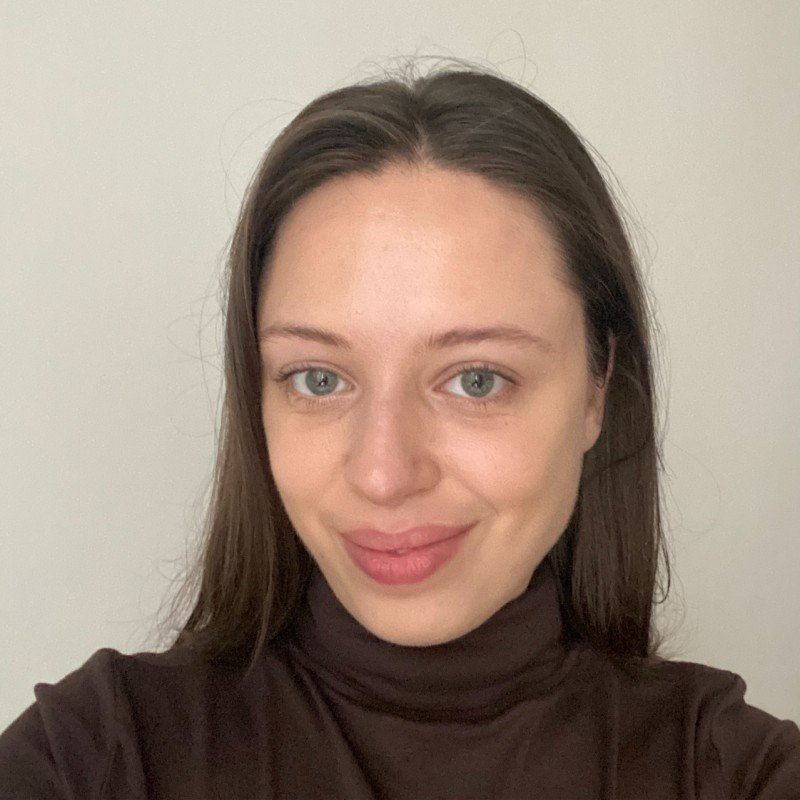
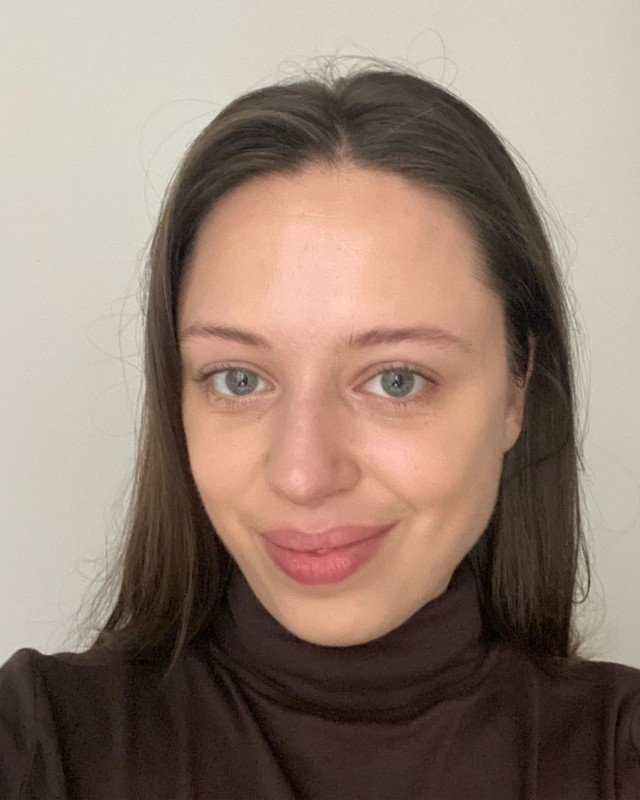
Lisa : fiche alignée sur les autres portraits
- portrait recadré en 4:5 comme les autres fiches
- section Mindset ajoutée (sa philosophie de travail), retirée du bloc inspirations
- Pauline Laigneau passe dans « Qui inspire Lisa ? » avec sa photo
- couverture Journal du Luxe au format vignette
- suppression du doublon « Le mot de la fin » (déjà généré automatiquement)

Claude-Session: https://claude.ai/code/session_01UtQ185CyuPBWY5TxR9ke8z

diff --git a/data/interviews.js b/data/interviews.js
@@ -283,20 +283,21 @@ window.INTERVIEWS = [
       { section: "declic", titreSection: "Comment Lisa est arrivée dans le CRO, puis dans l'UX", question: "Ton parcours et ta formation ?", reponse: "J'ai commencé en tant que web analyste / chargée de CRO chez Decathlon Pro (filiale BtoB de Decathlon). Cette première expérience m'a permis d'acquérir directement un mindset data driven et de toujours placer l'utilisateur au centre de mes réflexions. Quelles sont ses frictions, ses besoins, ses motivations : mon objectif est de toujours me mettre à la place de l'utilisateur. J'ai ensuite rejoint Welyft, une agence spécialisée en data marketing, experte de l'expérience digitale de la data à l'expérimentation. Travailler pour des clients différents avec des organisations et enjeux différents a été super formateur. Je recommande à tout le monde de passer par l'agence : ça permet vraiment de monter en compétence rapidement et de développer une curiosité, une exigence et une adaptabilité très fortes. Aujourd'hui j'ai l'opportunité de développer une nouvelle expertise en tant qu'UX Product Designer au sein d'une Maison de Haute Joaillerie." },
       { section: "Sa plus grande leçon", titreSection: "Pourquoi Lisa se remet toujours en question", question: "Tes succès et apprentissages ?", reponse: "Toujours se remettre en question et être ouvert d'esprit : chacun a un point de vue, une expérience différente et c'est super enrichissant de confronter son avis et ses connaissances avec d'autres personnes pour toujours apprendre et se challenger." },
       { section: "Son plus gros challenge", titreSection: "Le défi des équipes en silos", question: "Ton approche du CRO et de l'e-commerce ?", reponse: "Le plus gros challenge que j'observe, c'est le maillage des différentes expertises pour créer des expériences digitales ambitieuses : souvent les équipes sont très silotées entre les experts data, CRO, UX, les équipes business ou encore les équipes tech. Créer une organisation résolument tournée vers l'expérience digitale, data driven, tout en alliant la vision business, est souvent compliqué." },
-      { section: "Ses inspirations", titreSection: "Pourquoi Lisa se nourrit de son secteur", question: "Tes inspirations et influences ?", reponse: "Ma philosophie de travail, c'est vraiment de toujours me challenger, aller chercher l'extra mile pour rester ambitieuse et toujours apprendre. Pour les contenus, je consomme beaucoup de contenus secteur (Journal du Luxe, le podcast de Pauline Laigneau & co pour ma part) : je trouve ça important de se nourrir aussi concernant son secteur d'activité at large. Souvent, quand on travaille dans le digital, on pense plus hard skills, et c'est important, mais prendre de la hauteur permet aussi de nourrir ses réflexions, de penser différemment son métier et de mieux comprendre les enjeux business de son entreprise." },
+      { section: "mindset", question: "Ta philosophie de travail ?", titre: "Toujours me challenger, aller chercher l'extra mile.", auteur: "", reponse: "Ma philosophie de travail, c'est vraiment de toujours me challenger, aller chercher l'extra mile pour rester ambitieuse et toujours apprendre." },
+      { section: "Ses inspirations", titreSection: "Pourquoi Lisa se nourrit de son secteur", question: "Tes inspirations et influences ?", reponse: "Pour les contenus, je consomme beaucoup de contenus secteur (Journal du Luxe, le podcast de Pauline Laigneau & co pour ma part) : je trouve ça important de se nourrir aussi concernant son secteur d'activité at large. Souvent, quand on travaille dans le digital, on pense plus hard skills, et c'est important, mais prendre de la hauteur permet aussi de nourrir ses réflexions, de penser différemment son métier et de mieux comprendre les enjeux business de son entreprise." },
       { section: "Sa vision", titreSection: "Les AI design generators pour se concentrer sur l'essentiel", question: "Ta vision et ton expertise ?", reponse: "Ce que je trouve super intéressant en ce moment, c'est de tester les AI design generators. Je suis passée côté UX depuis quelques mois et, pour être honnête, être une pro de Figma et faire de la prod pure de wireframes et de prototypes, ce n'est pas vraiment ce qui m'intéresse dans mon métier. Ce qui m'anime, c'est plutôt de concevoir et d'imaginer des UX intéressantes : se dégager du temps en passant par Lovable ou Claude Design est donc super intéressant pour deep dive la user research, comprendre la stratégie avec les équipes business, réfléchir à l'ensemble des enjeux." },
       { section: "conseil", titreSection: "Le conseil de Lisa pour apprendre vite", question: "Ton conseil et ta secret sauce ?", titre: "Toujours aller chercher l'inconfort.", reponse: "Si on est à l'aise, c'est qu'on maîtrise : allez chercher des projets, des missions sur lesquels vous savez que vous serez challengés et que vous allez découvrir de nouvelles choses. Ça permet d'apprendre super vite ! Deuxième hack bonus : ce qui est assez important dans le monde pro au global, c'est le relationnel. C'est super important de s'intéresser aux gens, poser des questions à des personnes d'autres équipes (vos interlocuteurs ou non) : ça nourrit votre réflexion, ça vous permet de sortir de votre prisme et de comprendre aussi les enjeux des autres métiers." },
-      { section: "Le mot de la fin", titreSection: "Le CRO sans l'UX, ce n'est plus du CRO", question: "Le CRO sans […], ce n'est plus du CRO ?", reponse: "L'UX : on ne peut pas optimiser et créer des variations impactantes sans l'UX et la user research." }
     ],
     marques: ["Decathlon Pro", "Welyft"],
     outils: [
       { nom: "Lovable", usage: "AI design generator : se dégager du temps de production pour se concentrer sur la conception" },
       { nom: "Claude Design", usage: "AI design generator : se dégager du temps pour approfondir la user research" }
     ],
-    mentors: [],
+    mentors: [
+      { nom: "Pauline Laigneau", relation: "follows", expertise: "", organisation: "", citation: "Je consomme beaucoup de contenus secteur, dont le podcast de Pauline Laigneau : prendre de la hauteur permet de mieux comprendre les enjeux business de son entreprise.", lienLinkedin: "", photo: "images/inspirations/pauline-laigneau.jpg" }
+    ],
     ressources: [
-      { titre: "Journal du Luxe", type: "media", auteur: "", lien: "https://journalduluxe.fr", image: "images/inspirations/journal-du-luxe.jpg", raison: "Je consomme beaucoup de contenus secteur : c'est important de se nourrir aussi concernant son secteur d'activité at large.", relation: "follows" },
-      { titre: "Le podcast de Pauline Laigneau", type: "podcast", auteur: "Pauline Laigneau", lien: "", image: "images/inspirations/pauline-laigneau.jpg", raison: "Prendre de la hauteur permet de nourrir ses réflexions et de mieux comprendre les enjeux business de son entreprise.", relation: "follows" }
+      { titre: "Journal du Luxe", type: "media", auteur: "", lien: "https://journalduluxe.fr", image: "images/inspirations/journal-du-luxe.jpg", raison: "Je consomme beaucoup de contenus secteur : c'est important de se nourrir aussi concernant son secteur d'activité at large.", relation: "follows" }
     ],
     sujets: ["IA", "AI design generators", "User research", "Organisation"],
     aRetenir: {
